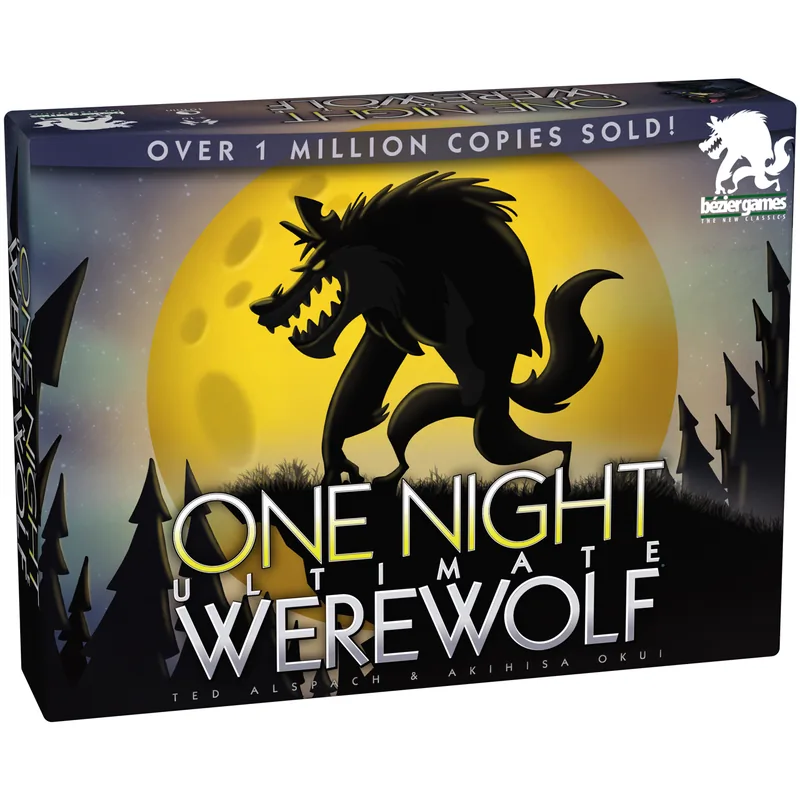
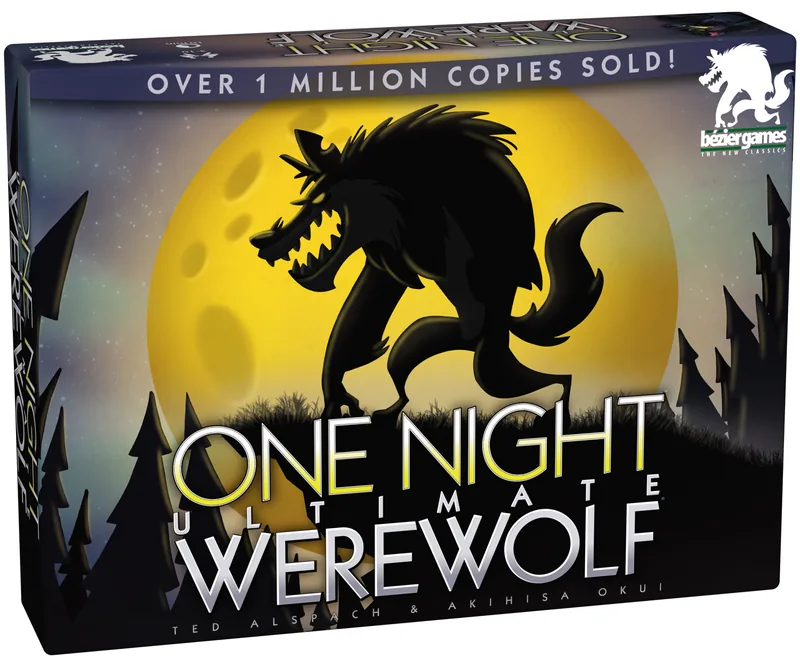
Crop the padding out of the covers
trim_margin only ever ran on the four covers added after it was written --
the original thirteen were packed before it existed, so several were a box
floating in white. 血染钟楼 filled 82% of its frame, 一夜终极狼人 80%,
风声 76%, and the leftover bars read as misalignment rather than as art.
Everything now fills 91-100%.

Two fixes to the packer while reprocessing:

Alpha is used for the crop when the source has it. A publisher PNG is the
box on transparency, and the exact bounds are right there -- far better than
flattening first and guessing the subject back out. That also let 风声 be
replaced with GoKids' own 1000px render instead of the 320px watermarked
shop photo, which was the weakest image on the page.

Transparency is flattened onto the card colour rather than white, so the
corners around an angled 3D box disappear into the card instead of sitting
on it as a pale rectangle.

diff --git a/site/tools/pack-covers.py b/site/tools/pack-covers.py
@@ -18,6 +18,10 @@ from PIL import Image
 
 MAX_EDGE = 800
 QUALITY = 82
+# Matches --card in index.html. Transparent pixels are flattened onto this
+# rather than white, so the corners left over around an angled 3D box render
+# disappear into the card instead of sitting on it as a pale rectangle.
+CARD_BG = (253, 243, 224)
 SITE = Path(__file__).resolve().parent.parent
 GAMES = SITE / "public/boardgames/games.json"
 COVERS = SITE / "public/boardgames/covers"
@@ -34,8 +38,8 @@ def trim_margin(im: Image.Image) -> Image.Image:
     """
     from PIL import ImageChops
 
-    white = Image.new("RGB", im.size, (255, 255, 255))
-    mask = ImageChops.difference(im, white).convert("L").point(lambda p: 255 if p > 11 else 0)
+    white = Image.new("RGB", im.convert("RGB").size, (255, 255, 255))
+    mask = ImageChops.difference(im.convert("RGB"), white).convert("L").point(lambda p: 255 if p > 11 else 0)
     box = mask.getbbox()
     if not box:
         return im
@@ -57,16 +61,20 @@ def pack(src: Path, dest: Path) -> str:
         im = ImageOps.exif_transpose(im)
     except Exception:
         pass
-    # Flatten transparency onto white rather than letting it go black in WebP.
+    # A publisher PNG is usually the box on transparency. Alpha gives the exact
+    # bounds, so crop from it before flattening -- far more accurate than
+    # guessing the subject back out of a flattened background afterwards.
     if im.mode in ("RGBA", "LA", "P"):
         im = im.convert("RGBA")
-        flat = Image.new("RGB", im.size, (255, 255, 255))
+        alpha_box = im.split()[-1].getbbox()
+        if alpha_box:
+            im = im.crop(alpha_box)
+        flat = Image.new("RGB", im.size, CARD_BG)
         flat.paste(im, mask=im.split()[-1])
         im = flat
     else:
         im = im.convert("RGB")
-
-    im = trim_margin(im)
+        im = trim_margin(im)
 
     w, h = im.size
     if max(w, h) > MAX_EDGE:
